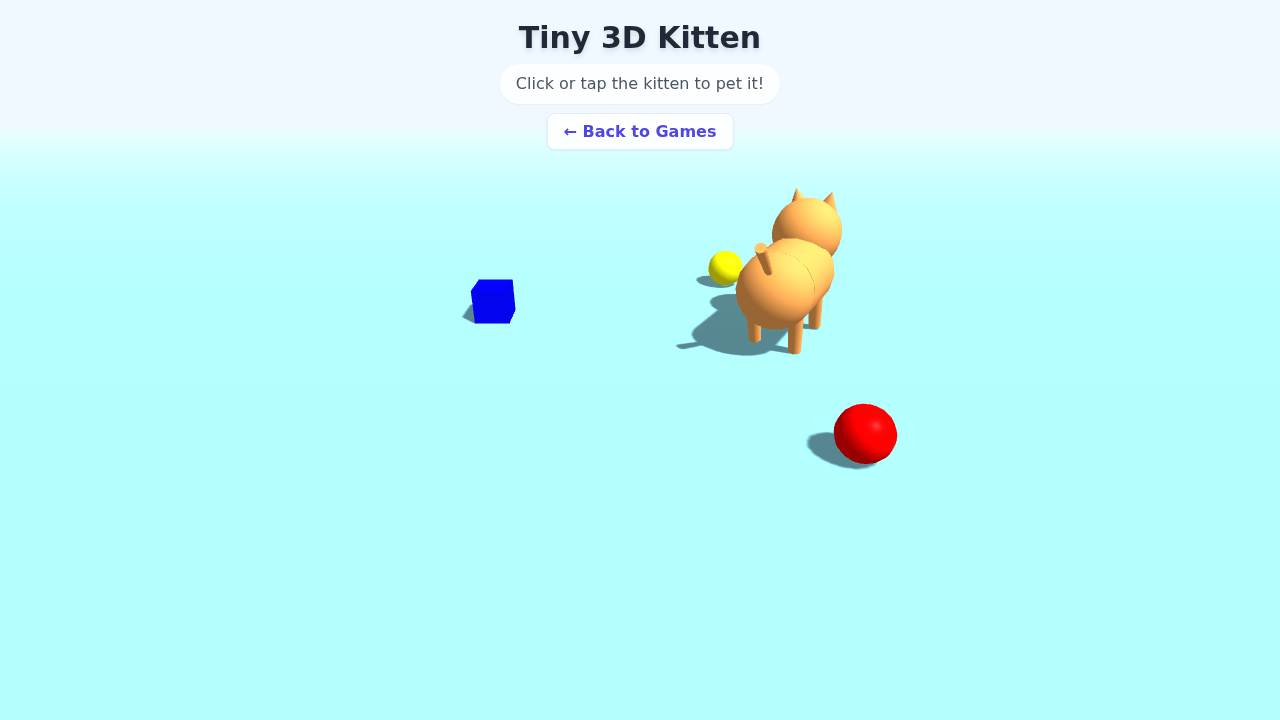
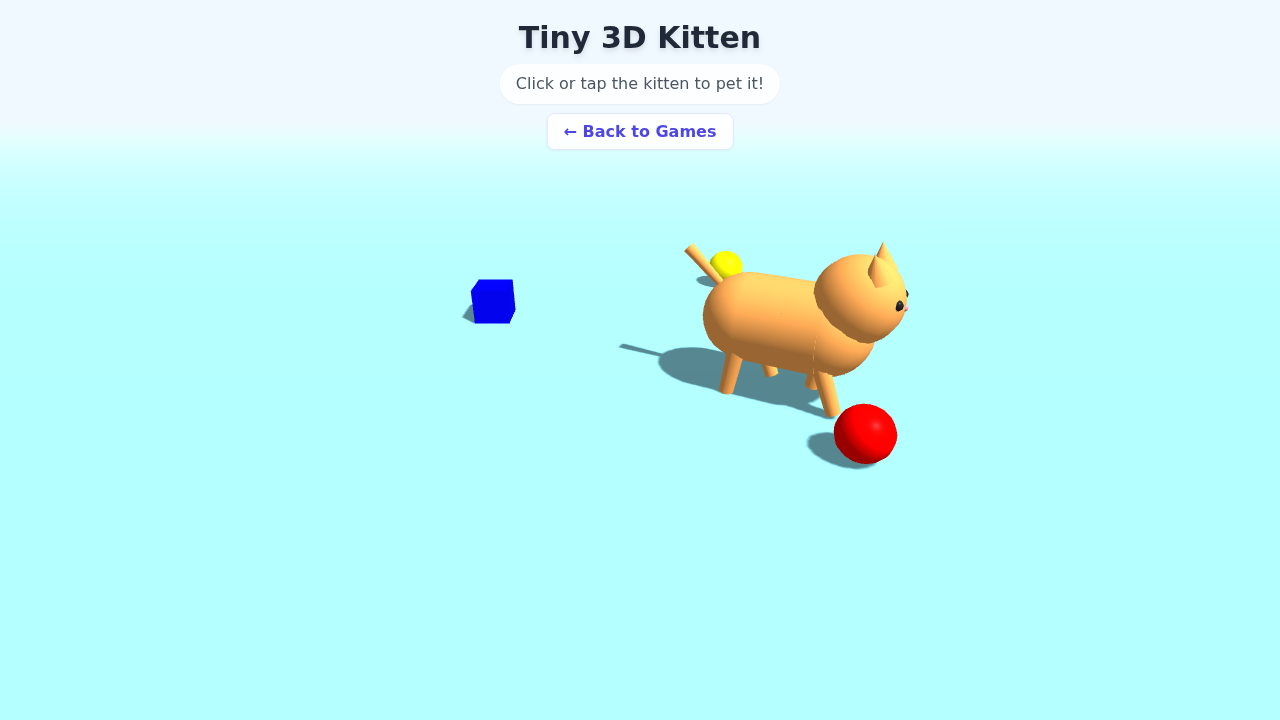
Implement sleeping behavior for 3D kitten game

Changed region(s): [[0.4688, 0.275, 0.7188, 0.5806]]

diff --git a/kitten_game.html b/kitten_game.html
@@ -219,6 +219,42 @@
             hearts.push({ mesh: heart, life: 1.0, speedY: 1.5 + Math.random() });
         }
 
+        // --- Zzz PARTICLES ---
+        function createZzzTexture() {
+            const canvas = document.createElement('canvas');
+            canvas.width = 64;
+            canvas.height = 64;
+            const ctx = canvas.getContext('2d');
+            ctx.font = 'bold 48px sans-serif';
+            ctx.fillStyle = '#ffffff';
+            ctx.textAlign = 'center';
+            ctx.textBaseline = 'middle';
+            ctx.fillText('Z', 32, 32);
+            // Add slight outline
+            ctx.strokeStyle = '#88ccff';
+            ctx.lineWidth = 2;
+            ctx.strokeText('Z', 32, 32);
+            return new THREE.CanvasTexture(canvas);
+        }
+
+        const zzzTexture = createZzzTexture();
+        const zzzMaterial = new THREE.SpriteMaterial({ map: zzzTexture, transparent: true, opacity: 0.8 });
+        const zzzs = [];
+
+        function spawnZzz() {
+            const zzz = new THREE.Sprite(zzzMaterial);
+            zzz.scale.set(0.5, 0.5, 0.5);
+
+            const worldPos = new THREE.Vector3();
+            head.getWorldPosition(worldPos);
+            zzz.position.copy(worldPos);
+            zzz.position.y += 0.8;
+            zzz.position.x += (Math.random() - 0.5) * 0.2;
+
+            scene.add(zzz);
+            zzzs.push({ mesh: zzz, life: 2.0, speedY: 0.8, swayOffset: Math.random() * 10 });
+        }
+
         // --- TOYS ---
         const toys = [];
         const toyMaterials = [
@@ -255,12 +291,13 @@
         createToys();
 
         // --- AI & LOGIC ---
-        let state = 'IDLE'; // IDLE, WALK, PET
+        let state = 'IDLE'; // IDLE, WALK, PET, SLEEP
         let stateTimer = 0;
         let targetPos = new THREE.Vector3();
         let walkSpeed = 2.5;
         let turnSpeed = 3.0;
         let petTimer = 0;
+        let sleepTimer = 0;
 
         function pickRandomPoint() {
             const r = 8 * Math.sqrt(Math.random());
@@ -283,7 +320,7 @@
             const intersects = raycaster.intersectObjects(kittenGroup.children, true);
 
             if (intersects.length > 0) {
-                // Pet the kitten!
+                // Pet/Wake the kitten!
                 state = 'PET';
                 petTimer = 1.5; // Pet for 1.5 seconds
                 spawnHeart();
@@ -312,10 +349,52 @@
                 // Tail wag
                 tailGroup.rotation.y = Math.sin(time * 2) * 0.2;
 
+                // Lerp back to standing pose
+                kittenGroup.position.y = THREE.MathUtils.lerp(kittenGroup.position.y, 0, 5 * dt);
+                kittenGroup.rotation.z = THREE.MathUtils.lerp(kittenGroup.rotation.z, 0, 5 * dt);
+                leftEye.scale.y = THREE.MathUtils.lerp(leftEye.scale.y, 1, 10 * dt);
+                rightEye.scale.y = THREE.MathUtils.lerp(rightEye.scale.y, 1, 10 * dt);
+                headGroup.position.y = THREE.MathUtils.lerp(headGroup.position.y, 1.8, 5 * dt);
+
                 if (stateTimer <= 0) {
-                    state = 'WALK';
-                    targetPos = pickRandomPoint();
-                    stateTimer = 5.0; // Max walk time before rethinking
+                    // 30% chance to sleep, 70% chance to walk
+                    if (Math.random() < 0.3) {
+                        state = 'SLEEP';
+                        stateTimer = 5.0 + Math.random() * 5.0; // Sleep 5-10s
+                    } else {
+                        state = 'WALK';
+                        targetPos = pickRandomPoint();
+                        stateTimer = 5.0; // Max walk time
+                    }
+                }
+            }
+            else if (state === 'SLEEP') {
+                stateTimer -= dt;
+
+                // Curl/Lower animation
+                // Lower body to floor
+                kittenGroup.position.y = THREE.MathUtils.lerp(kittenGroup.position.y, -0.6, 2 * dt);
+                // Roll slightly
+                kittenGroup.rotation.z = THREE.MathUtils.lerp(kittenGroup.rotation.z, 0.2, 2 * dt);
+                // Lower head
+                headGroup.position.y = THREE.MathUtils.lerp(headGroup.position.y, 1.4, 2 * dt);
+
+                // Close eyes
+                leftEye.scale.y = THREE.MathUtils.lerp(leftEye.scale.y, 0.1, 10 * dt);
+                rightEye.scale.y = THREE.MathUtils.lerp(rightEye.scale.y, 0.1, 10 * dt);
+
+                // Slow breathing
+                body.scale.set(1, 1 + Math.sin(time * 1.5) * 0.03, 1);
+
+                // Stop tail wag
+                tailGroup.rotation.y = THREE.MathUtils.lerp(tailGroup.rotation.y, 0, 2 * dt);
+
+                // Spawn Zzz
+                if (Math.random() < 0.02) spawnZzz();
+
+                if (stateTimer <= 0) {
+                    state = 'IDLE';
+                    stateTimer = 1.0;
                 }
             }
             else if (state === 'WALK') {
@@ -364,8 +443,12 @@
             else if (state === 'PET') {
                 petTimer -= dt;
 
+                // Wake up pose quickly
+                kittenGroup.rotation.z = THREE.MathUtils.lerp(kittenGroup.rotation.z, 0, 5 * dt);
+
                 // Happy purr vibration
-                kittenGroup.position.y = Math.sin(time * 50) * 0.02;
+                kittenGroup.position.y = Math.sin(time * 50) * 0.02; // relative to 0 ideally
+                if(kittenGroup.position.y < 0 && state !== 'SLEEP') kittenGroup.position.y = Math.max(0, kittenGroup.position.y);
 
                 // Close eyes (scale y)
                 leftEye.scale.y = 0.1;
@@ -397,6 +480,20 @@
                 if (h.life <= 0) {
                     scene.remove(h.mesh);
                     hearts.splice(i, 1);
+                }
+            }
+
+            // Update Zzzs
+            for (let i = zzzs.length - 1; i >= 0; i--) {
+                const z = zzzs[i];
+                z.life -= dt;
+                z.mesh.position.y += z.speedY * dt;
+                z.mesh.position.x += Math.sin(time * 2 + z.swayOffset) * 0.01;
+                z.mesh.material.opacity = Math.min(z.life, 0.8);
+
+                if (z.life <= 0) {
+                    scene.remove(z.mesh);
+                    zzzs.splice(i, 1);
                 }
             }
 
